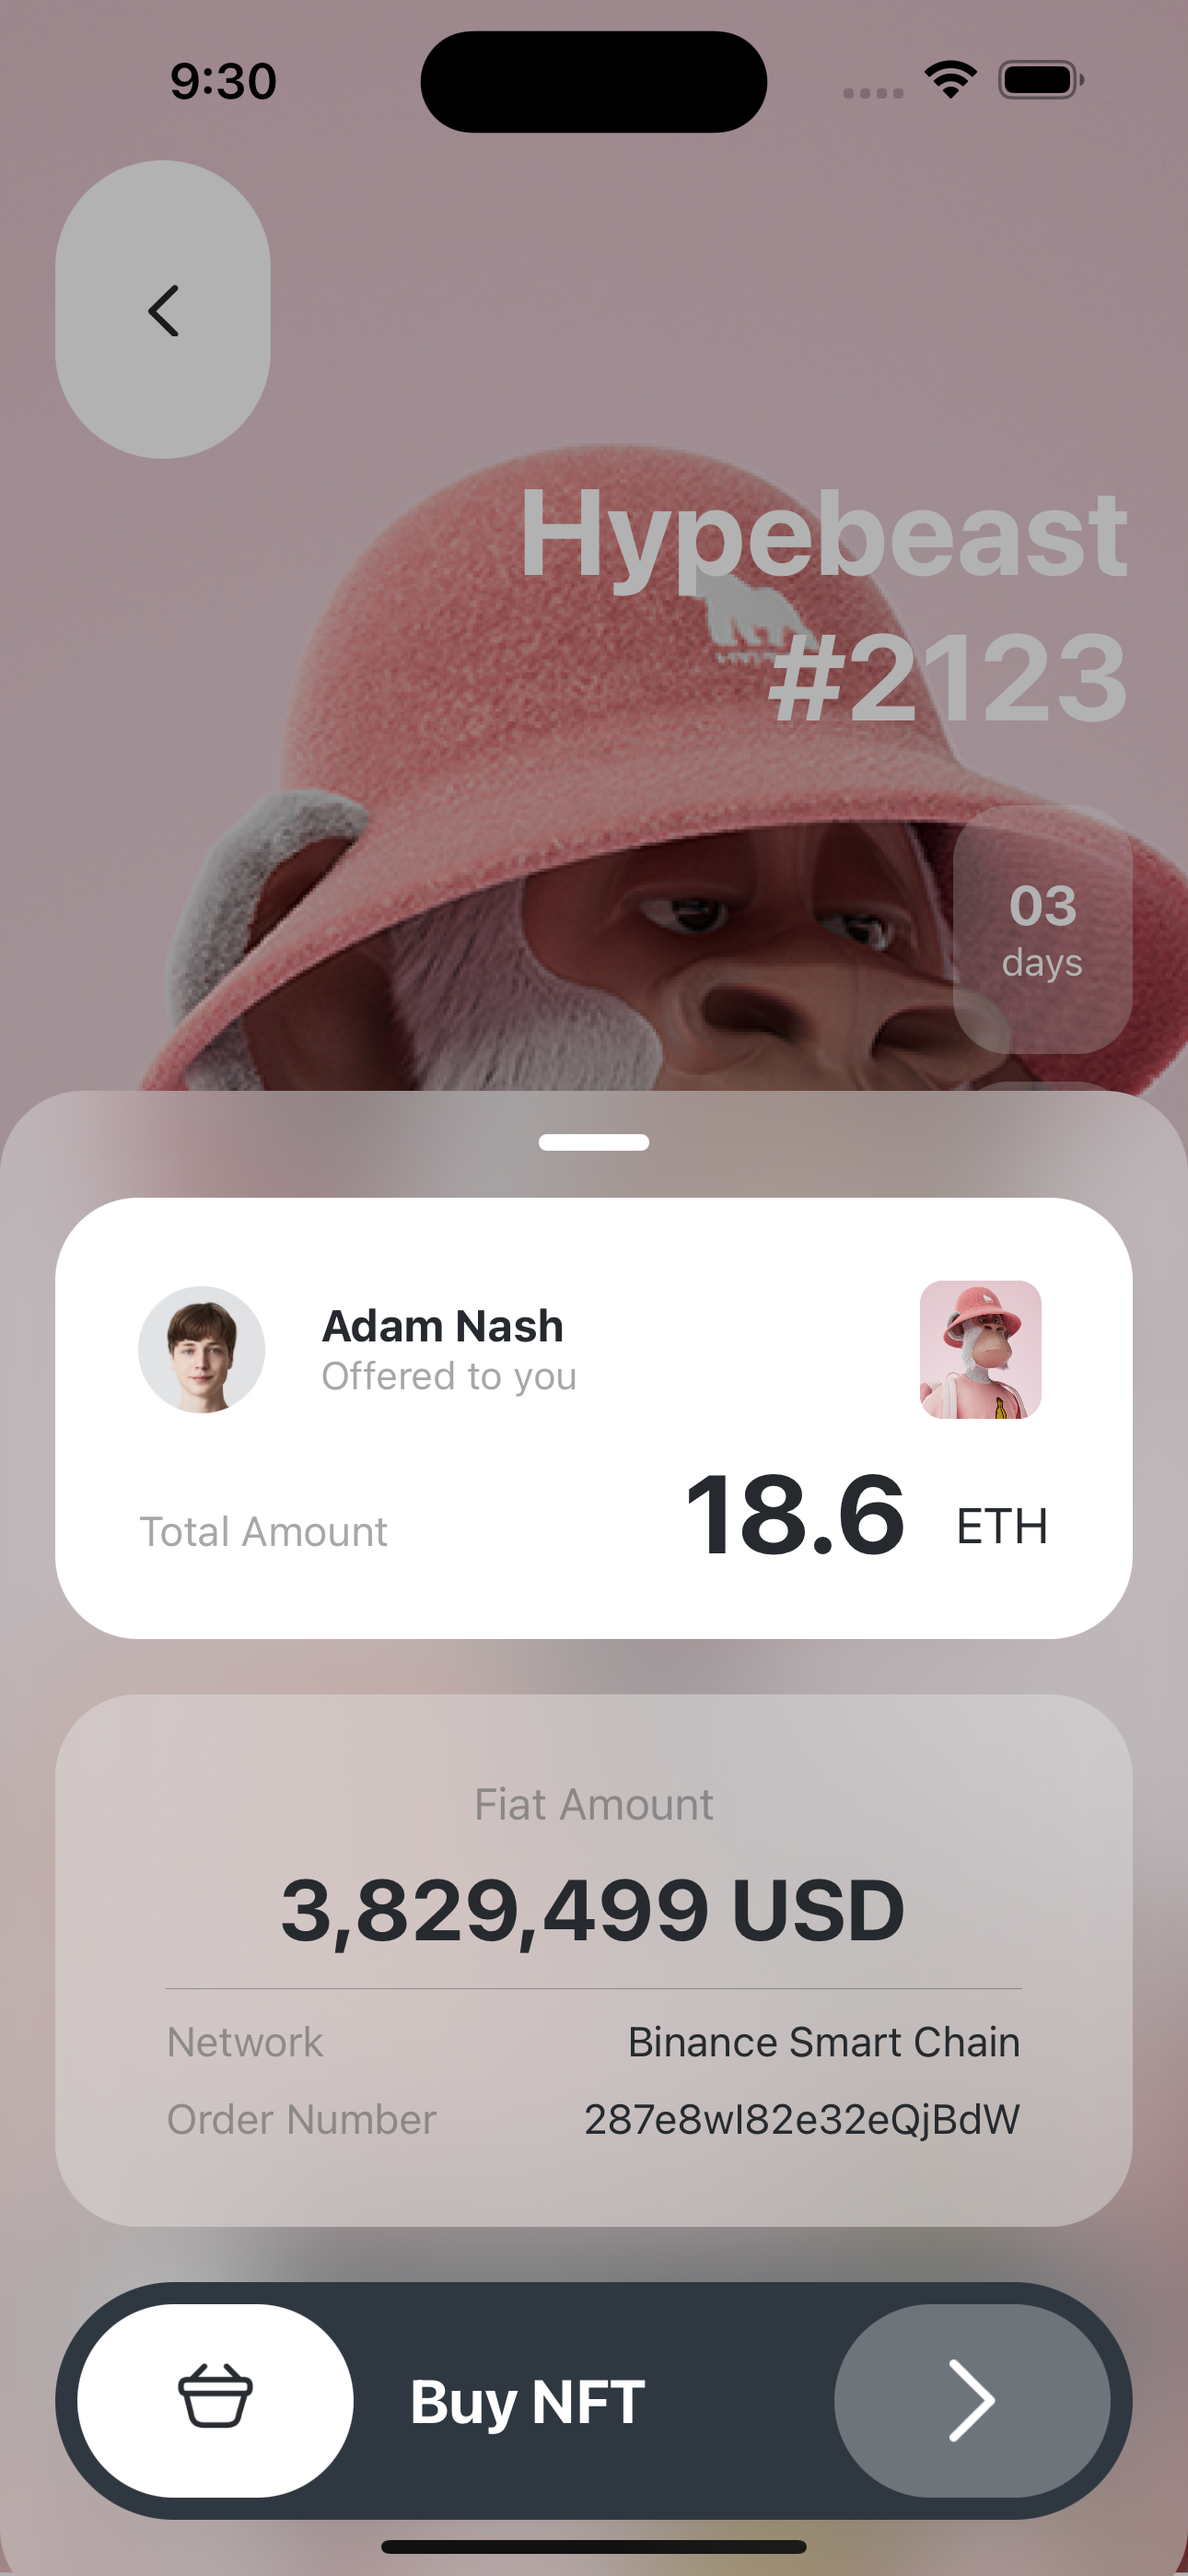
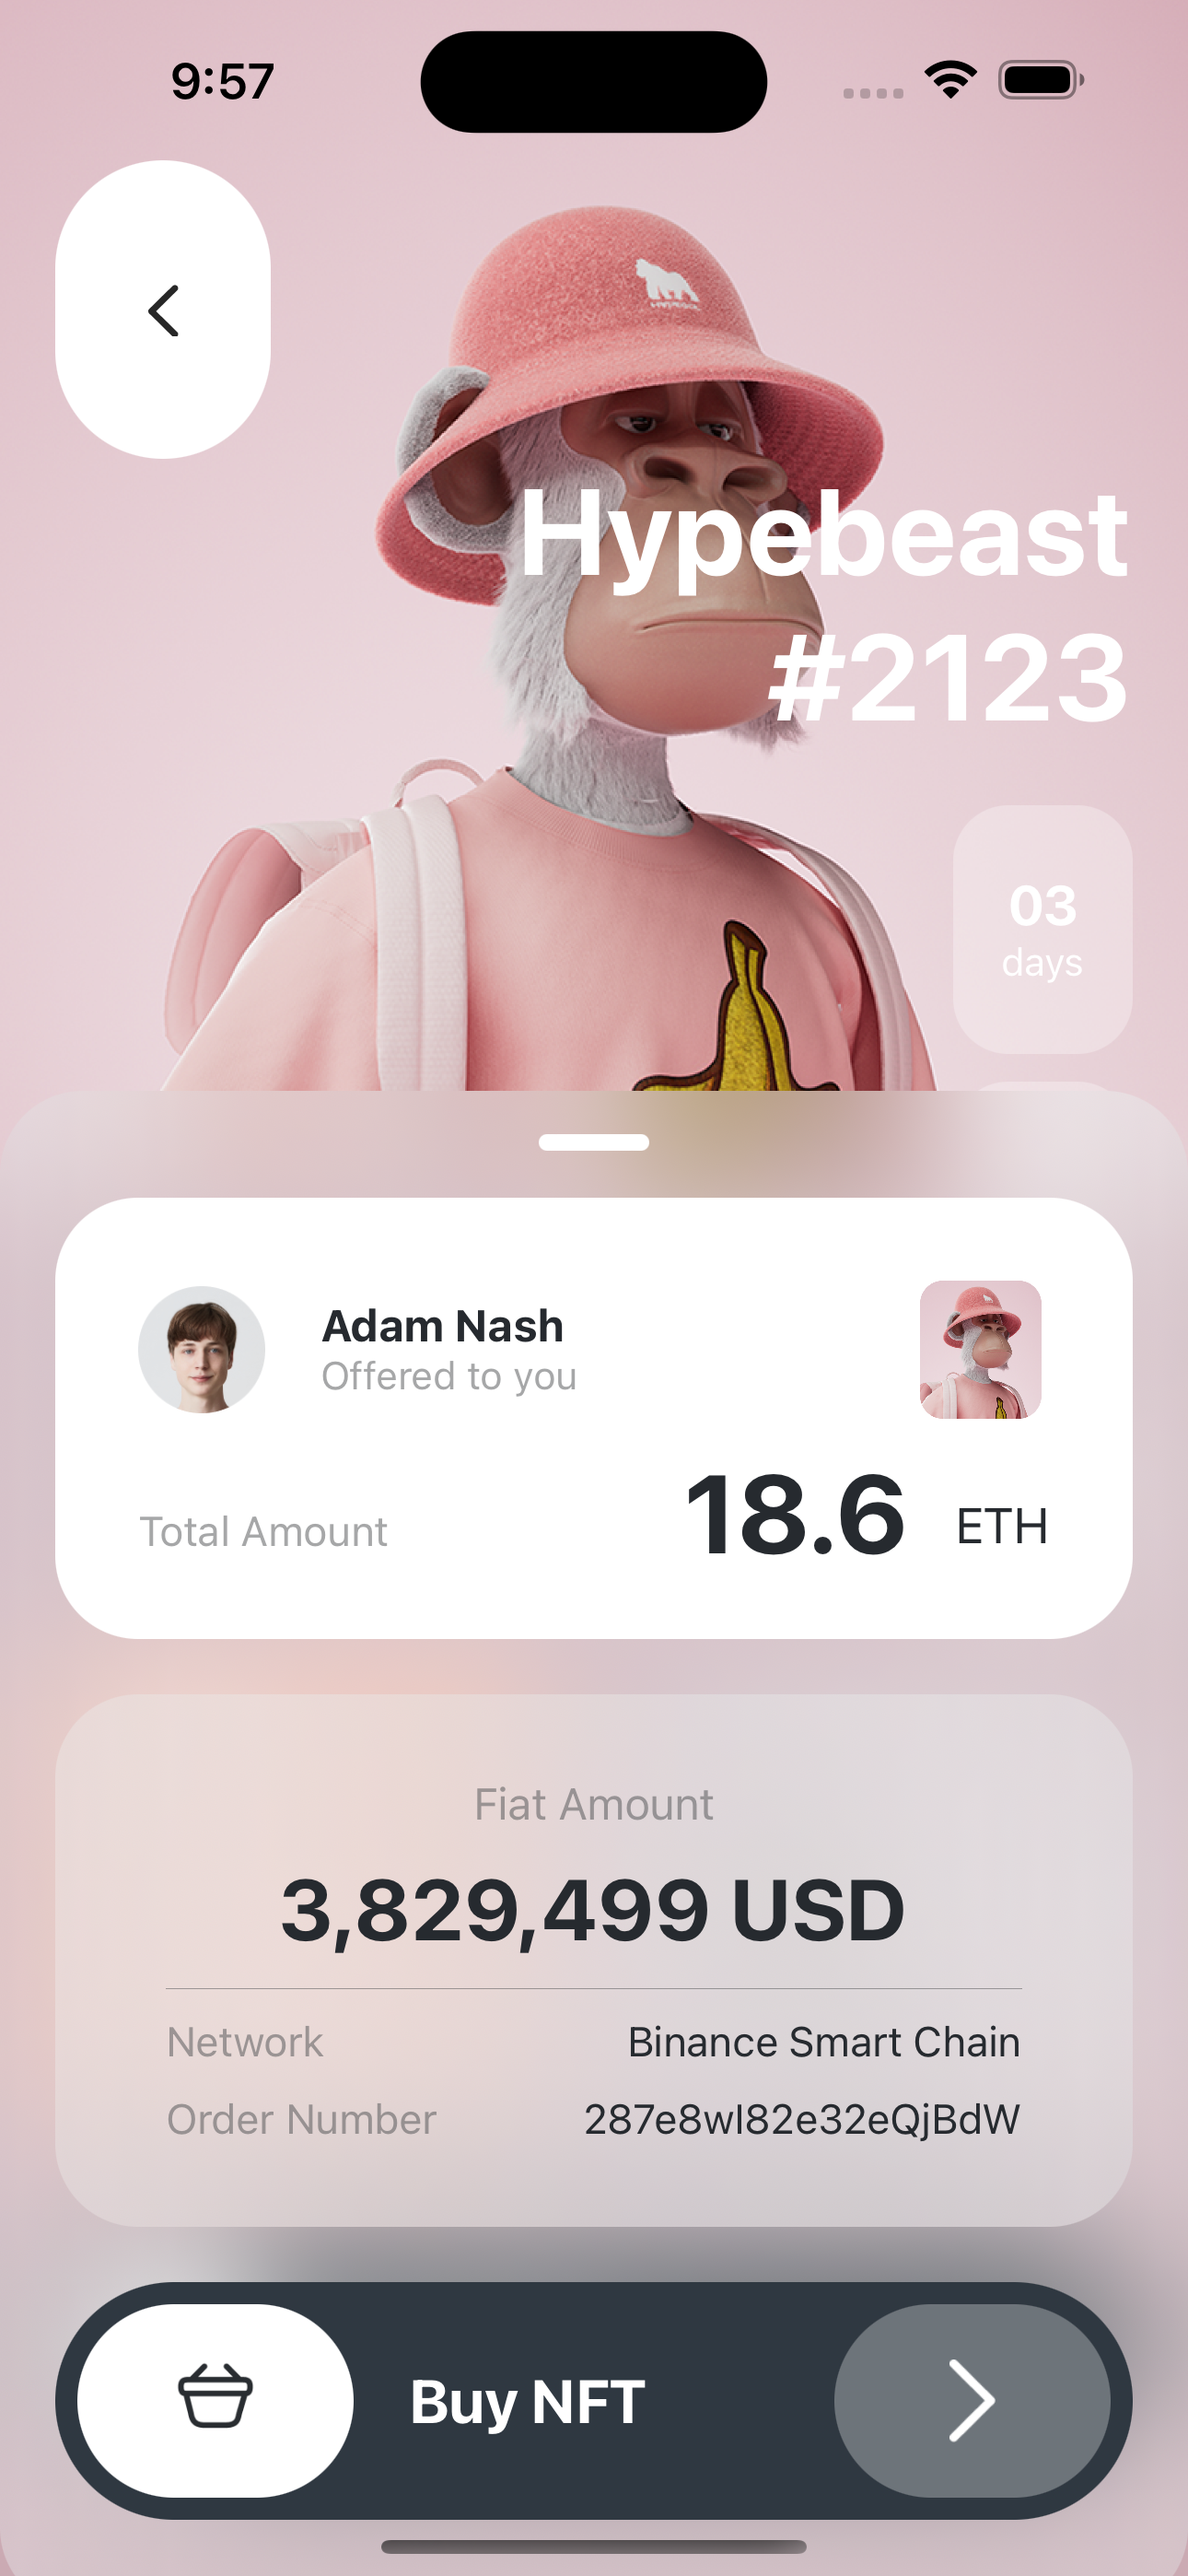
Create background image animation

diff --git a/NFT/views/NftDetail.swift b/NFT/views/NftDetail.swift
@@ -8,12 +8,17 @@
 import SwiftUI
 
 struct BuyModal: View {
-    let height = 550.0
     @State var yOffset = 0.0
+    @Binding var backgroundImageHeight: CGFloat
     @Binding var isShow: Bool {
         didSet {
             yOffset = 0
         }
+    }
+
+    func closeModal() {
+        isShow = false
+        backgroundImageHeight = UIScreen.screenHeight
     }
 
     var mainView: some View {
@@ -110,13 +115,16 @@ struct BuyModal: View {
                     }
                 }
                     .padding(.vertical, 30)
-                    .padding(.horizontal,40)
+                    .padding(.horizontal, 40)
                     .background(BlurView())
                     .cornerRadius(30)
 
                 Spacer().frame(height: 20)
 
-                Button(action: { withAnimation { isShow = true } }) {
+                Button(action: { withAnimation {
+                    isShow = true
+                    backgroundImageHeight = UIScreen.screenHeight
+                } }) {
                     HStack(alignment: .center) {
                         Image("bag")
                             .resizable()
@@ -152,7 +160,7 @@ struct BuyModal: View {
                 .padding(.horizontal, 20)
                 .frame(maxHeight: .infinity, alignment: .bottomLeading)
         }
-            .frame(height: height)
+            .frame(height: 550)
             .frame(maxWidth: .infinity)
             .background(
             Rectangle()
@@ -174,6 +182,12 @@ struct BuyModal: View {
 
             if yOffset < 0 {
                 yOffset = 0
+
+            }
+
+            backgroundImageHeight += dragAmount
+            if backgroundImageHeight < UIScreen.screenHeight - 500 {
+                backgroundImageHeight = UIScreen.screenHeight - 500
             }
 
             prevDragTranslation = val.translation
@@ -182,9 +196,10 @@ struct BuyModal: View {
             isDraging = false
             prevDragTranslation = .zero
             if yOffset > 150 {
-                isShow = false
+                closeModal()
             } else {
                 yOffset = 0
+                backgroundImageHeight = UIScreen.screenHeight - 500
             }
         }
     }
@@ -193,11 +208,9 @@ struct BuyModal: View {
         ZStack(alignment: .bottom) {
             if isShow {
                 Color.black
-                    .opacity(0.3)
+                    .opacity(0.0001)
                     .ignoresSafeArea()
-                    .onTapGesture {
-                    isShow = false
-                }
+                    .onTapGesture { closeModal() }
                 mainView
                     .transition(.move(edge: .bottom))
             }
@@ -211,15 +224,19 @@ struct BuyModal: View {
 struct NftDetail: View {
     @Environment(\.presentationMode) var presentationMode: Binding<PresentationMode>
     @State var isShowBuyModal = false;
+    @State var imageHeight = UIScreen.screenHeight
 
     var body: some View {
         NavigationView {
             ZStack(alignment: .bottomLeading) {
                 Image("NFTExampleFullscreen")
                     .resizable()
-                    .aspectRatio(contentMode: .fill)
-                    .frame(width: UIScreen.screenWidth, height: UIScreen.screenHeight, alignment: .center)
+                    .scaledToFill()
+                    .frame(width: UIScreen.screenWidth, height: imageHeight)
                     .ignoresSafeArea()
+                    .animation(.easeInOut)
+                    .frame(maxWidth: .infinity, maxHeight: .infinity, alignment: .top)
+
                 VStack(alignment: .leading, spacing: 0) {
                     Button(action: {
                         self.presentationMode.wrappedValue.dismiss()
@@ -336,7 +353,10 @@ struct NftDetail: View {
 
                     Spacer().frame(height: 30)
 
-                    Button(action: { withAnimation { isShowBuyModal = true } }) {
+                    Button(action: { withAnimation {
+                        isShowBuyModal = true
+                        imageHeight = UIScreen.screenHeight - 500
+                    } }) {
                         HStack(alignment: .center) {
                             Image("Hammer")
                                 .resizable()
@@ -368,8 +388,10 @@ struct NftDetail: View {
                     Spacer().frame(height: getSafeAreaInsets()["bottom"])
                 }.padding(.all, 20)
 
-                BuyModal(isShow: $isShowBuyModal)
+                BuyModal(backgroundImageHeight: $imageHeight, isShow: $isShowBuyModal)
             }
+                .frame(width: UIScreen.screenWidth, height: UIScreen.screenHeight)
+                .background(/*@START_MENU_TOKEN@*//*@PLACEHOLDER=View@*/Color(red: 0.796078431372549, green: 0.6666666666666666, blue: 0.7019607843137254)/*@END_MENU_TOKEN@*/)
         }.navigationBarHidden(/*@START_MENU_TOKEN@*/true/*@END_MENU_TOKEN@*/)
     }
 }
